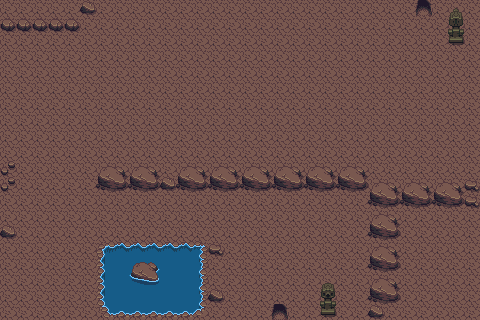
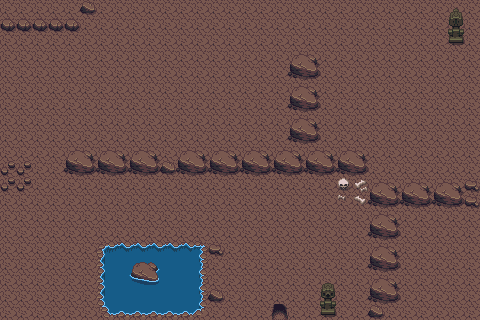
fixing boxes collider

diff --git a/frontend/src/game/scenes/DungeonScene.ts b/frontend/src/game/scenes/DungeonScene.ts
@@ -2,7 +2,6 @@ import Phaser from "phaser";
 import dungeonData from "../maps/dungeon.json";
 import { Player }         from "../entities/Player";
 import { HUD }            from "../ui/HUD";
-import { GameOverScreen } from "../ui/GameOverScreen";
 
 const OBSTACLE_LAYERS = ["Water", "Rock"];
 const MAP_W = 800;
@@ -10,13 +9,14 @@ const MAP_H = 600;
 const COLS  = 30;
 const ROWS  = 20;
 
-// Dungeon door entrance: col 17, row 19 (bottom) → spawn player at row 17
+// Spawn just above the dungeon door (Door layer: col 17, row 19)
 const SPAWN_X = 17 * (MAP_W / COLS) + (MAP_W / COLS) / 2;
 const SPAWN_Y = 17 * (MAP_H / ROWS) + (MAP_H / ROWS) / 2;
 
 export default class DungeonScene extends Phaser.Scene {
     private player!: Player;
     private hud!:    HUD;
+    private boxes:   Phaser.Physics.Arcade.Sprite[] = [];
 
     private cursors!:  Phaser.Types.Input.Keyboard.CursorKeys;
     private wasd!:     { up: Phaser.Input.Keyboard.Key; down: Phaser.Input.Keyboard.Key; left: Phaser.Input.Keyboard.Key; right: Phaser.Input.Keyboard.Key };
@@ -30,11 +30,11 @@ export default class DungeonScene extends Phaser.Scene {
     init() {
         this.isGameOver    = false;
         this.transitioning = false;
+        this.boxes         = [];
     }
 
     preload() {
-        this.load.image("dungeon", "src/game/assets/dungeon.png");
-        // Player sprites are cached globally — re-declaring is safe (no re-download)
+        this.load.image("dungeon",      "src/game/assets/dungeon.png");
         this.load.spritesheet("player",     "src/game/assets/player.png",  { frameWidth: 16, frameHeight: 32 });
         this.load.spritesheet("player-atk", "src/game/assets/player.png",  { frameWidth: 32, frameHeight: 32 });
         this.load.spritesheet("objects",    "src/game/assets/objects.png",  { frameWidth: 16, frameHeight: 16 });
@@ -43,12 +43,17 @@ export default class DungeonScene extends Phaser.Scene {
     create() {
         this.add.image(0, 0, "dungeon").setOrigin(0, 0).setDisplaySize(MAP_W, MAP_H);
 
-        const walls = this.buildWalls();
+        const tileW = MAP_W / COLS;
+        const tileH = MAP_H / ROWS;
+
+        const walls = this.buildWalls(tileW, tileH);
+        this.addBoxes(walls, tileW, tileH);
 
         this.player = new Player(this, SPAWN_X, SPAWN_Y);
         this.hud    = new HUD(this);
 
         this.physics.add.collider(this.player.sprite, walls);
+        this.boxes.forEach(box => this.physics.add.collider(this.player.sprite, box));
         this.setupExitZone();
 
         this.physics.world.setBounds(0, 0, MAP_W, MAP_H);
@@ -72,12 +77,13 @@ export default class DungeonScene extends Phaser.Scene {
         if (this.isGameOver) return;
         this.player.handleInput(this.cursors, this.wasd, this.spaceKey);
         this.hud.update(this.player.hp);
+        // Boxes stop as soon as the player stops pushing them
+        this.boxes.forEach(b => (b.body as Phaser.Physics.Arcade.Body).setVelocity(0, 0));
     }
 
     private setupExitZone() {
         const tileW = MAP_W / COLS;
         const tileH = MAP_H / ROWS;
-        // Porte de sortie du donjon : col 17, row 19 (bas de la map)
         const exitX = 17 * tileW + tileW / 2;
         const exitY = 19 * tileH + tileH / 2;
         const zone = this.add.zone(exitX, exitY, tileW, tileH);
@@ -93,10 +99,43 @@ export default class DungeonScene extends Phaser.Scene {
         });
     }
 
-    private buildWalls(): Phaser.Physics.Arcade.StaticGroup {
-        const tileW = MAP_W / COLS;
-        const tileH = MAP_H / ROWS;
+    private addBoxes(walls: Phaser.Physics.Arcade.StaticGroup, tileW: number, tileH: number) {
+        // Each crate is a 2×2 tile block; tile 6888 is the top-left corner
+        const BOX_TOPLEFT = 6888;
 
+        const boxLayer = (dungeonData.layers as { name: string; data: number[] }[])
+            .find(l => l.name === "Box");
+
+        if (!boxLayer) return;
+
+        boxLayer.data.forEach((tile, idx) => {
+            if (tile !== BOX_TOPLEFT) return;
+            const col = idx % COLS;
+            const row = Math.floor(idx / COLS);
+            // Center of the 2×2 area starting at (col, row)
+            const x = (col + 1) * tileW;
+            const y = (row + 1) * tileH;
+
+            // Invisible sprite — dungeon.png provides the visual
+            const box = this.physics.add.sprite(x, y, "pixel");
+            box.setDisplaySize(tileW * 2, tileH * 2)
+               .setVisible(false)
+               .setCollideWorldBounds(true);
+
+            const body = box.body as Phaser.Physics.Arcade.Body;
+            body.setSize(tileW * 2, tileH * 2);
+            body.debugBodyColor = 0x0000ff;
+
+            this.physics.add.collider(box, walls);
+            this.boxes.push(box);
+        });
+
+        for (let i = 0; i < this.boxes.length; i++)
+            for (let j = i + 1; j < this.boxes.length; j++)
+                this.physics.add.collider(this.boxes[i], this.boxes[j]);
+    }
+
+    private buildWalls(tileW: number, tileH: number): Phaser.Physics.Arcade.StaticGroup {
         if (!this.textures.exists("pixel")) {
             const gfx = this.add.graphics();
             gfx.fillStyle(0xffffff).fillRect(0, 0, 1, 1);

diff --git a/frontend/src/game/entities/Enemy.ts b/frontend/src/game/entities/Enemy.ts
@@ -19,18 +19,22 @@ export class Enemy {
     constructor(scene: Phaser.Scene, x: number, y: number) {
         this.scene = scene;
 
-        scene.anims.create({
-            key:       "enemy-sleep",
-            frames:    scene.anims.generateFrameNumbers("enemy", { frames: [4] }),
-            frameRate: 1,
-            repeat:    -1,
-        });
-        scene.anims.create({
-            key:       "enemy-walk",
-            frames:    scene.anims.generateFrameNumbers("enemy", { frames: [0, 1, 2, 3] }),
-            frameRate: 6,
-            repeat:    -1,
-        });
+        if (!scene.anims.exists("enemy-sleep")) {
+            scene.anims.create({
+                key:       "enemy-sleep",
+                frames:    scene.anims.generateFrameNumbers("enemy", { frames: [4] }),
+                frameRate: 1,
+                repeat:    -1,
+            });
+        }
+        if (!scene.anims.exists("enemy-walk")) {
+            scene.anims.create({
+                key:       "enemy-walk",
+                frames:    scene.anims.generateFrameNumbers("enemy", { frames: [0, 1, 2, 3] }),
+                frameRate: 6,
+                repeat:    -1,
+            });
+        }
 
         this.sprite = scene.physics.add.sprite(x, y, "enemy");
         this.sprite.setScale(1.8).setCollideWorldBounds(true);

diff --git a/frontend/src/game/scenes/MainScene.ts b/frontend/src/game/scenes/MainScene.ts
@@ -5,7 +5,7 @@ import { Enemy }          from "../entities/Enemy";
 import { HUD }            from "../ui/HUD";
 import { GameOverScreen } from "../ui/GameOverScreen";
 
-const OBSTACLE_LAYERS = ["Tree", "House", "Rock", "Water", "Tower", "Fence"];
+const OBSTACLE_LAYERS = ["Tree", "House", "Rock", "Water", "Tower", "Fence", "Skull", "Box"];
 const MAP_W = 800;
 const MAP_H = 600;
 const COLS  = 30;
@@ -54,6 +54,8 @@ export default class MainScene extends Phaser.Scene {
         const walls = this.buildWalls();
 
         this.player = new Player(this, this.spawnX, this.spawnY);
+        // Prevent the enemy from pushing the player via physics collision
+        (this.player.sprite.body as Phaser.Physics.Arcade.Body).pushable = false;
         this.enemy  = new Enemy(this,  400, 300);
         this.hud    = new HUD(this);
 
@@ -84,10 +86,12 @@ export default class MainScene extends Phaser.Scene {
            //Tower: { w: 1.0, h: 1.0, ox: 0, oy: 0 }
         };
         // 1×1 white texture used as an invisible wall tile
-        const gfx = this.add.graphics();
-        gfx.fillStyle(0xffffff).fillRect(0, 0, 1, 1);
-        gfx.generateTexture("pixel", 1, 1);
-        gfx.destroy();
+        if (!this.textures.exists("pixel")) {
+            const gfx = this.add.graphics();
+            gfx.fillStyle(0xffffff).fillRect(0, 0, 1, 1);
+            gfx.generateTexture("pixel", 1, 1);
+            gfx.destroy();
+        }
 
         const walls = this.physics.add.staticGroup();
         (mapData.layers as { name: string; data: number[] }[])

diff --git a/frontend/src/game/entities/Player.ts b/frontend/src/game/entities/Player.ts
@@ -39,7 +39,6 @@ export class Player {
         this.sprite.setScale(1.8).setCollideWorldBounds(true);
         const body = this.sprite.body as Phaser.Physics.Arcade.Body;
         body.setSize(10, 19).setOffset(BODY_OFFSET_WALK.x, BODY_OFFSET_WALK.y);
-        body.pushable = false;
 
         this.createAnimations();
         this.sprite.anims.play("walk-down");
@@ -174,6 +173,7 @@ export class Player {
 
     private createAnimations() {
         WALK_DIRS.forEach(({ key, row }) => {
+            if (this.scene.anims.exists(`walk-${key}`)) return;
             const start = row * WALK_COLS_PER_ROW;
             this.scene.anims.create({
                 key: `walk-${key}`,
@@ -185,6 +185,7 @@ export class Player {
             });
         });
         ATTACK_DIRS.forEach(({ key, row }) => {
+            if (this.scene.anims.exists(`attack-${key}`)) return;
             const start = row * 8;
             this.scene.anims.create({
                 key: `attack-${key}`,